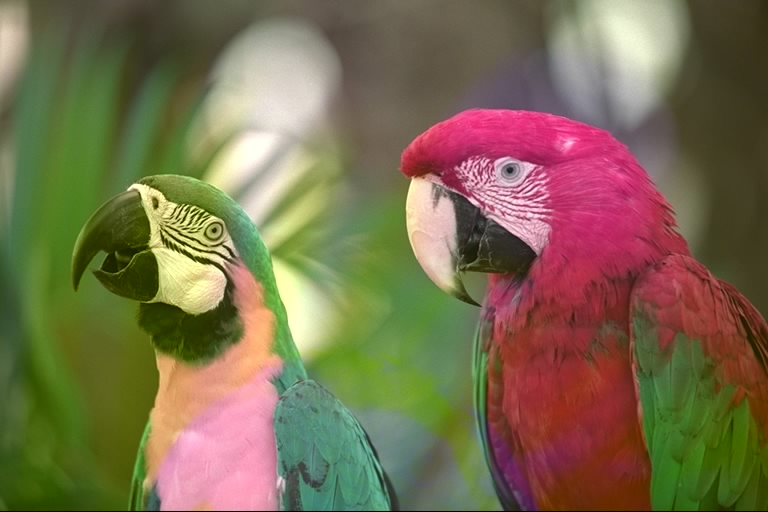
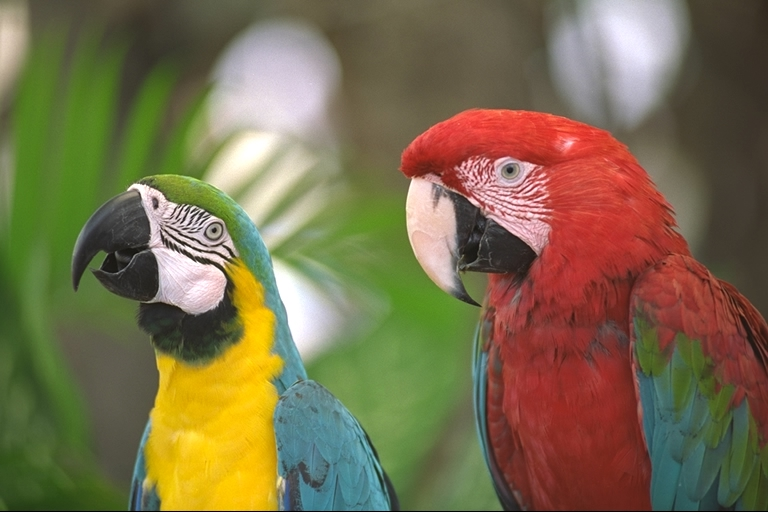
modified:   mysample.cpp 	modified:   output.jpg

diff --git a/mysample.cpp b/mysample.cpp
@@ -75,6 +75,7 @@ int main(int argc, char *argv[]) {
   // クロマサブサンプリング
   if (image.channels() == 3) {
     cv::resize(cimage[1], cimage[1], cv::Size(), 0.5, 0.5, cv::INTER_AREA);
+    cv::resize(cimage[2], cimage[2], cv::Size(), 0.5, 0.5, cv::INTER_AREA);
   }
 
   for (int c = 0; c < image.channels(); ++c) {
@@ -101,6 +102,7 @@ int main(int argc, char *argv[]) {
   // クロマアップサンプリング
   if (image.channels() == 3) {
     cv::resize(cimage[1], cimage[1], cv::Size(), 2.0, 2.0, cv::INTER_AREA);
+    cv::resize(cimage[2], cimage[2], cv::Size(), 2.0, 2.0, cv::INTER_AREA);
   }
   cv::merge(cimage, image);
   if (image.channels() == 3) {
